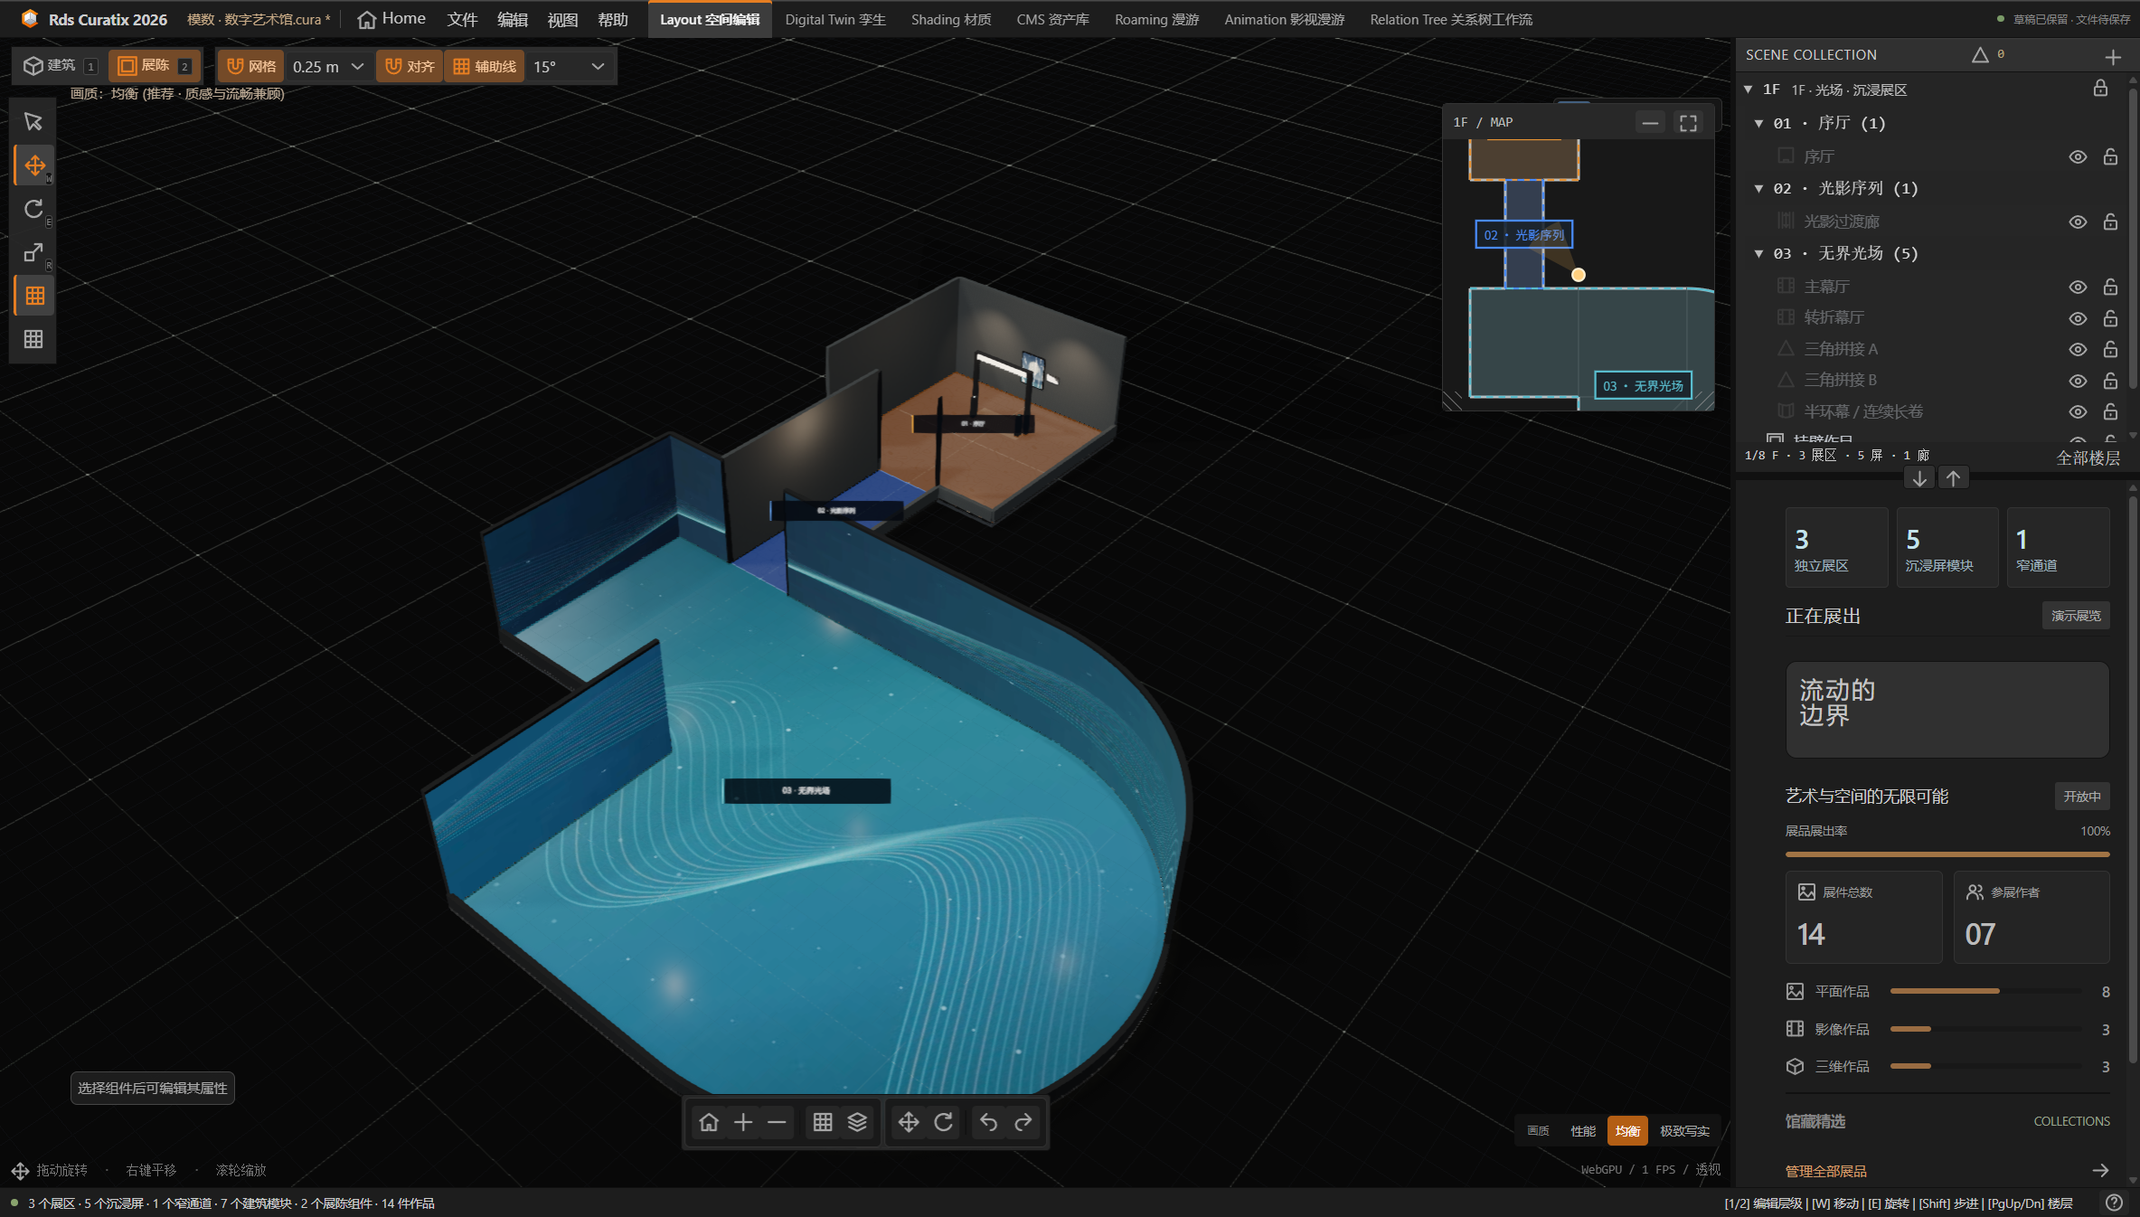
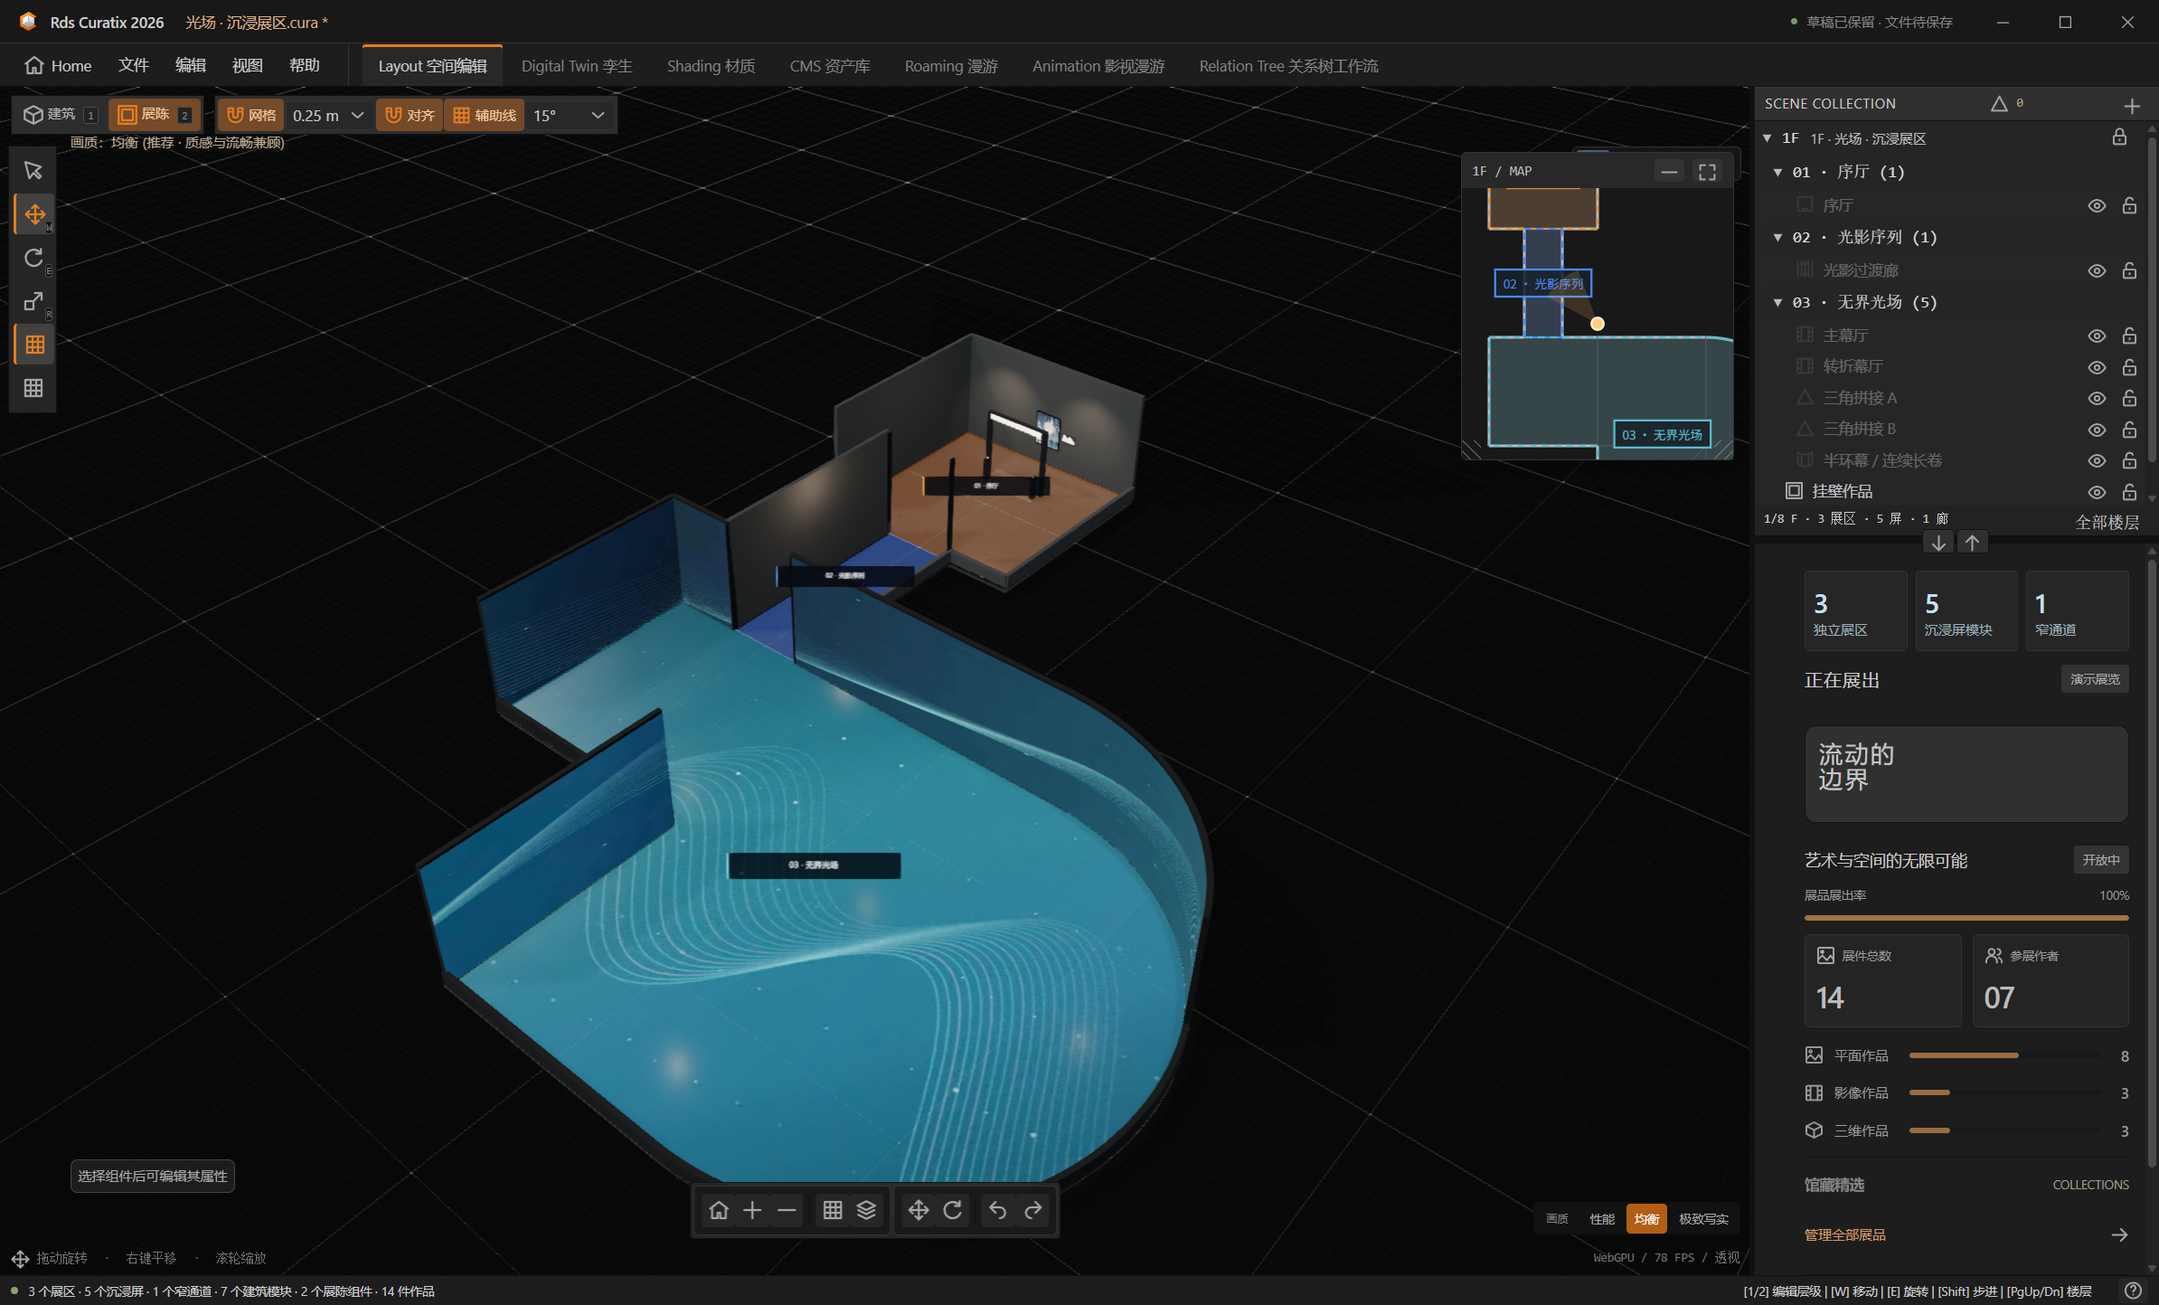
Redesign public README and product showcase

diff --git a/README.md b/README.md
@@ -1,114 +1,119 @@
-<p align="center">
-  <img src="assets/logo.svg" alt="Rds Curatix logo" width="144" height="144">
-</p>
+<div align="center">
+  <img src="assets/logo.svg" alt="Rds Curatix logo" width="112">
+  <h1>Rds Curatix</h1>
+  <p><em>Design an exhibition, stage its media, and walk through it in 3D.</em></p>
+  <p>
+    <a href="https://github.com/GreentailTohru-arch/Rds-Curatix/releases/latest"><img src="https://img.shields.io/github/v/release/GreentailTohru-arch/Rds-Curatix?style=flat-square&amp;label=release&amp;color=e67e22" alt="Latest release"></a>
+    <a href="#download"><img src="https://img.shields.io/badge/desktop-Windows%20x64-0078D4?style=flat-square" alt="Windows x64 desktop"></a>
+    <a href="https://greentailtohru-arch.github.io/Rds-Curatix/"><img src="https://img.shields.io/badge/web-launch-e67e22?style=flat-square" alt="Launch the web app"></a>
+    <a href="#distribution"><img src="https://img.shields.io/badge/distribution-proprietary-555555?style=flat-square" alt="Proprietary distribution"></a>
+  </p>
+  <p>
+    <a href="#download">Download</a> ·
+    <a href="#quick-start">Quick start</a> ·
+    <a href="#workspaces">Workspaces</a> ·
+    <a href="#vr-preview">VR preview</a> ·
+    <a href="https://github.com/GreentailTohru-arch/Rds-Curatix/releases">Release notes</a>
+  </p>
+  <img src="assets/workspace.png" alt="Rds Curatix desktop workspace showing an immersive gallery, floor map, and scene collection" width="960">
+  <p><sub>The built-in Light Field exhibition in the Windows workspace.</sub></p>
+</div>
 
-<h1 align="center">Rds Curatix</h1>
+## What is Rds Curatix?
 
-<p align="center">A modular 3D gallery, exhibition design, and digital twin studio.</p>
+Rds Curatix is a modular 3D gallery, exhibition design, and digital twin studio. Build a venue from rooms, passages, stairs, and exhibition zones. Arrange works and media in the same project, then review the result on foot, through an authored camera route, or in a compatible VR headset.
 
-<p align="center">
-  <a href="https://greentailtohru-arch.github.io/Rds-Curatix/">Launch Web App</a>
-  &nbsp;·&nbsp;
-  <a href="https://github.com/GreentailTohru-arch/Rds-Curatix/releases/latest">Download for Windows</a>
-  &nbsp;·&nbsp;
-  <a href="https://github.com/GreentailTohru-arch/Rds-Curatix/issues">Report an Issue</a>
-</p>
-
-## Overview
-
-Rds Curatix is a visual workspace for building virtual exhibitions, arranging artwork, and exploring galleries through interactive and cinematic tours. The Windows desktop app and the web app share the same exhibition tools and portable project format.
-
-**Rds Curatix is proprietary, closed-source software.** This is the official distribution repository. Application source code, development projects, and user exhibition files are not published here.
-
-## Features
-
-- **Modular exhibition spaces** — assemble multi-floor galleries with geometric rooms, corridors, stairs, and named exhibition zones.
-- **Exhibition tools** — place wall-mounted frames, display walls, glass showcases, sculpture plinths, screens, lighting, and furniture.
-- **Immersive media** — bind separate elevation and floor video channels across connected immersive screens, with aspect-ratio and resolution guidance.
-- **Physical rendering** — explore procedural materials, museum lighting, soft shadows, and adjustable rendering quality.
-- **Interactive and cinematic tours** — navigate galleries directly, visualize tour routes, and edit camera movements and artwork focus.
-- **VR roaming** — choose joystick, teleport, or hybrid locomotion before entering VR or from the spatial menu. Uses a compatible renderer when the headset does not grant WebGPU XR.
-- **SteamVR launch on Windows** — launch a local EGOlite / Chrome / Edge VR preview from the desktop app with the current exhibition and unsaved changes; connect the headset using Steam Link or Virtual Desktop.
-- **Connected workflows** — manage artwork in the asset library and inspect spatial and content relationships in the relation tree.
-- **Portable projects** — save `.cura` projects or exchange `.json` files with embedded exhibition assets between desktop and web.
+The Windows and web editions share the exhibition tools and project format. Start in the browser or use the desktop app to open and save projects directly on disk.
 
 ## Download
 
-The current desktop release is **2026.3.7** for **Windows x64**.
+| Edition | Get it | Use it for |
+| --- | --- | --- |
+| **Web app** | [Launch in browser](https://greentailtohru-arch.github.io/Rds-Curatix/) | Open a gallery or start from a template without installing the desktop app. |
+| **Windows x64 installer** | [Download Setup.exe](https://github.com/GreentailTohru-arch/Rds-Curatix/releases/download/v2026.3.7/Rds-Curatix-2026-2026.3.7-x64-Setup.exe) | Install with shortcuts and register the `.cura` file association. |
+| **Windows x64 portable** | [Download Portable.exe](https://github.com/GreentailTohru-arch/Rds-Curatix/releases/download/v2026.3.7/Rds-Curatix-2026-2026.3.7-x64-Portable.exe) | Run the desktop app without an installer. |
 
-| Package | Description |
+Windows packages above are **2026.3.7**. [SHA-256 checksums](https://github.com/GreentailTohru-arch/Rds-Curatix/releases/download/v2026.3.7/SHA256SUMS-2026.3.7.txt) · [All releases](https://github.com/GreentailTohru-arch/Rds-Curatix/releases)
+
+For the web edition, a desktop browser with WebGPU and compatible graphics hardware is recommended. Rendering performance depends on the scene, hardware, and quality preset.
+
+## Quick start
+
+1. Open **Home** for recent projects, or start a new project. Open the **Official Venue Library** (`官方场馆模板库`) to start from a built-in venue.
+2. In **Layout**, place and size architectural modules, organize floors and zones, then add exhibit fixtures.
+3. In **CMS**, import artwork, video, or 3D assets and bind them to the exhibits or immersive surfaces that should display them.
+4. Review the floor map, walk the gallery in **Roaming**, or author a camera route in **Animation**.
+5. Save a `.cura` project or export `.json` with its referenced assets for use on another device.
+
+## Workspaces
+
+| Workspace | What you can do |
 | --- | --- |
-| [Windows Installer](https://github.com/GreentailTohru-arch/Rds-Curatix/releases/download/v2026.3.7/Rds-Curatix-2026-2026.3.7-x64-Setup.exe) | Installs the desktop app, creates shortcuts, and registers the `.cura` project file association. |
-| [Windows Portable](https://github.com/GreentailTohru-arch/Rds-Curatix/releases/download/v2026.3.7/Rds-Curatix-2026-2026.3.7-x64-Portable.exe) | Runs the desktop app without an installer. |
-| [SHA-256 Checksums](https://github.com/GreentailTohru-arch/Rds-Curatix/releases/download/v2026.3.7/SHA256SUMS-2026.3.6.txt) | Verifies the integrity of the official downloads. |
+| **Layout** | Assemble geometric rooms, curved surfaces, passages, and stairs. Organize them into floors and zones. Resize rooms with outline feedback during the drag. |
+| **Digital Twin** | Review the venue, floor map, zone layout, and exhibition contents. |
+| **Shading** | Adjust materials and lighting. Switch rendering presets to balance visual detail and responsiveness. |
+| **CMS** | Organize artwork and media and assign them to frames, display walls, showcases, plinths, and screens. Bind separate elevation and floor video channels to connected immersive surfaces. |
+| **Roaming** | Walk the exhibition or open the VR preview controls. |
+| **Animation** | Plan camera routes and edit shots, movement, and artwork focus. |
+| **Relation Tree** | Inspect links between spaces, exhibit fixtures, and content. |
 
-Release notes and other available versions are listed on the [Releases page](https://github.com/GreentailTohru-arch/Rds-Curatix/releases).
+## Project files
 
-## Web App
+Both `.cura` and `.json` use the same portable project format. A saved project can contain the venue geometry, exhibits, media bindings, relationship graph, camera routes, and embedded assets referenced by the project.
 
-Open **[Rds Curatix for the Web](https://greentailtohru-arch.github.io/Rds-Curatix/)**. A desktop browser with WebGPU support and compatible graphics hardware provides the best experience. Rendering performance depends on the graphics hardware, selected quality, and exhibition complexity.
+- **Windows** saves `.cura` directly to disk. Use **Save As** to create a separate copy and **Export JSON** for interchange.
+- **Web** keeps drafts in the current browser. Save or export a project file to back up the exhibition or move it between devices or editions.
 
-The web app stores local drafts in the current browser. Export a project to keep a portable backup or move it to another browser or to the desktop app.
+| Shortcut | Action |
+| --- | --- |
+| `Ctrl+O` | Open a `.cura` or `.json` project. |
+| `Ctrl+S` | Save on desktop or download the project on web. |
+| `Ctrl+Shift+S` | Save a separate project copy. |
+| `M` | Open the floor map in the gallery workspace. |
 
-### VR Controls
+## VR preview
 
-In the web app, open **View → WebXR Roaming**, choose **摇杆 (Joystick)**, **位移 (Teleport)**, or **混合 (Hybrid)**, and start VR. Use the left stick to walk, hold/release the trigger to aim/teleport, and flick the right stick for a 45° snap turn. The grip button brings the spatial menu in front of you; point and press the trigger to change modes or exit.
+### WebXR in a headset browser
 
-Use a WebXR-capable headset browser over HTTPS. This update was verified with emulated XR sessions and stereo rendering; physical headset validation remains necessary.
+Open the web app in a compatible headset browser over HTTPS. In the gallery, choose **View → WebXR Roaming** (`视图 → WebXR 漫游`), choose a movement mode, and select **Start VR**. Curatix can use a compatible renderer when the session does not provide WebGPU XR.
 
-### SteamVR from the Windows App
+### SteamVR on Windows
 
-Open **View → WebXR Roaming → SteamVR 串流** and click **启动 SteamVR**. Connect the headset to the PC through Steam Link or Virtual Desktop and wait for SteamVR to show it as ready. Then click **打开展厅预览**, and click **开始 VR** in the new preview window. Accept the browser's immersive-VR permission prompt if shown.
+1. Open **View → WebXR Roaming** and select **Start SteamVR** (`启动 SteamVR`).
+2. Connect the headset through **Steam Link** or **Virtual Desktop** and wait for SteamVR to show it as ready.
+3. Select **Open Exhibition Preview** (`打开展厅预览`). The desktop launcher uses EGOlite when available and also offers installed Chrome or Edge browsers.
+4. In the preview window, select **Start VR** (`开始 VR`) and accept the browser's VR permission prompt if it appears.
 
-This compatibility path uses a separate browser window for stereoscopic WebXR. The exhibition snapshot includes unsaved edits; subsequent changes can be sent with **重新连接 / 更新展厅**. Chrome / Edge previews start a fresh browser process on reconnect. EGOlite uses its existing browser configuration. Imported media stays on the PC and is streamed locally to the browser. Keep the desktop app open; **结束预览** disconnects the preview without altering the original project.
+The preview includes unsaved exhibition edits and reads referenced media through a temporary local connection. Keep Curatix open during the session. Use **Reconnect / Update Exhibition** to refresh the preview after editing, or **End Preview** to disconnect it.
 
-The launcher detects SteamVR, browsers and the current OpenXR runtime. EGOlite is selected first when installed and retains its working VR configuration. Chrome / Edge request SteamVR for their preview process without changing the system default. If no headset is detected, select SteamVR as the current runtime in **SteamVR Settings → OpenXR**, close the preview window, and launch it again. Actual headset and wireless-network validation is still required; the app does not supply its own headset streaming transport.
+<details>
+<summary>View the Windows SteamVR setup panel</summary>
 
-Controller input supports analog trigger and grip values when a browser does not emit select/squeeze events, with no duplicate action when both are available. Spatial menus show a hit cursor and hover highlight. Opening the VR dashboard, losing tracking or disconnecting a controller cancels pending teleportation. The status panel distinguishes connected controllers from missing joystick axes.
+<p align="center">
+  <img src="assets/steamvr-launcher.png" alt="SteamVR setup with browser selection, connection status, and three movement modes" width="860">
+</p>
 
-## Room dimension editing in 2026.3.7
+</details>
 
-Room dimensions use lightweight outline previews while dragging. Existing gallery geometry, exhibits and videos remain alive until a single commit on release. Canceling a preview does not rebuild the scene. Large scenes may still pause briefly on the final commit.
+| Input | Action |
+| --- | --- |
+| Left stick | Walk in **Joystick** or **Hybrid** mode. |
+| Trigger | Aim and release to teleport in **Teleport** or **Hybrid** mode. Point and press to select a spatial menu item. |
+| Right stick | Snap turn by 45°. |
+| Grip | Bring the spatial menu into view to change modes, reset position, or exit. |
 
-## Workspace UI in 2026.3.6
+<details>
+<summary>Troubleshoot headset and controller detection</summary>
 
-The title row shows the app and project name, with window controls on Windows. A second row contains Home, menus and workspace tabs. Opening another menu, clicking outside, choosing an action or pressing Escape closes the previous menu. Home contains recent projects; quick-start cards live exclusively in the official venue library. About shows the software version from the same package metadata as the desktop installer.
+- **Headset not detected:** check the connection in SteamVR before opening the preview. If the headset connected after the preview opened, choose **Reconnect / Update Exhibition** and try again.
+- **Quest controllers detected but sticks do not respond:** on Windows, check for an Ultraleap OpenXR conflict. On a Quest 3 with Steam Link and EGOlite, turning off **OpenXR Support** in the Ultraleap Control Panel and restarting the preview browser restored the joystick inputs. The same setting controls Ultraleap hand tracking in other OpenXR apps.
 
-The desktop VR dialog offers SteamVR streaming only. VR setup, movement cards, connection feedback, the session monitor and the floating headset menu share the dark workspace theme and orange accents. Joystick, teleport and hybrid modes remain available.
-
-## Getting Started
-
-1. Install the Windows app, run the portable edition, or open the web app.
-2. Open a recent project from Home, create a gallery, or choose a quick-start template in the official venue library.
-3. Assemble spaces and place exhibition modules in the workspace.
-4. Import artwork and media in the asset library, then bind them to exhibits or immersive channels.
-5. Explore the exhibition or configure a cinematic tour.
-6. Save or export your project as `.cura` or `.json`.
-
-On desktop, `Ctrl+S` saves and `Ctrl+Shift+S` saves a new copy. In the web app, saving downloads a portable project. `Ctrl+O` opens a compatible project. Press `M` in the gallery workspace to open the floor map.
-
-## Workspace Preview
-
-![Rds Curatix running the built-in immersive exhibition template](assets/workspace.png)
-
-## Repository Contents
-
-- `assets/` — product logo and application preview.
-- `web/` — pre-built web application distributed through GitHub Pages.
-- `.github/workflows/` — deployment of the pre-built web application.
-
-This repository does not include the development environment, application source project, or editable exhibition project files. GitHub's automatically generated repository archives contain only these public distribution materials.
+</details>
 
 ## Feedback
 
-Please [open an issue](https://github.com/GreentailTohru-arch/Rds-Curatix/issues/new) for a reproducible problem or a feature request. Include the app version, operating system, graphics hardware, and reproduction steps. Attach only materials you intend to make public.
+For a bug report, include the Curatix version, edition, OS, GPU, rendering preset, and steps to reproduce. For VR issues, also include the headset, connection method, browser, and the session status shown in Curatix. [Open an issue](https://github.com/GreentailTohru-arch/Rds-Curatix/issues/new)
 
-## License
+## Distribution
 
-Copyright © 2026 Rds. All rights reserved.
-
-Rds Curatix is proprietary software and is not released under an open-source license. Publication of desktop binaries and the compiled web client does not make the application's development source available.
-
-### Quest controllers visible but joystick input missing
-
-On Windows, an installed Ultraleap OpenXR layer can interfere with physical Quest controller input. If Curatix reports missing joystick axes, check Ultraleap Control Panel → Settings → **OpenXR Support**. Turning it off and restarting the VR browser restored joystick walking, snap turning and buttons in our Quest 3 / Steam Link / EGOlite hardware test. This setting also affects Ultraleap hand tracking in other OpenXR applications and can be re-enabled in the same panel. No Ultraleap uninstall or system runtime change is required. A web page cannot change the computer’s OpenXR plugin settings.
+Rds Curatix is proprietary software. This is its official distribution repository. It contains product documentation, branding, and the compiled web app. Windows binaries are distributed through GitHub Releases. The automatic repository archives contain these public distribution files. [Proprietary software notice](NOTICE.md)
